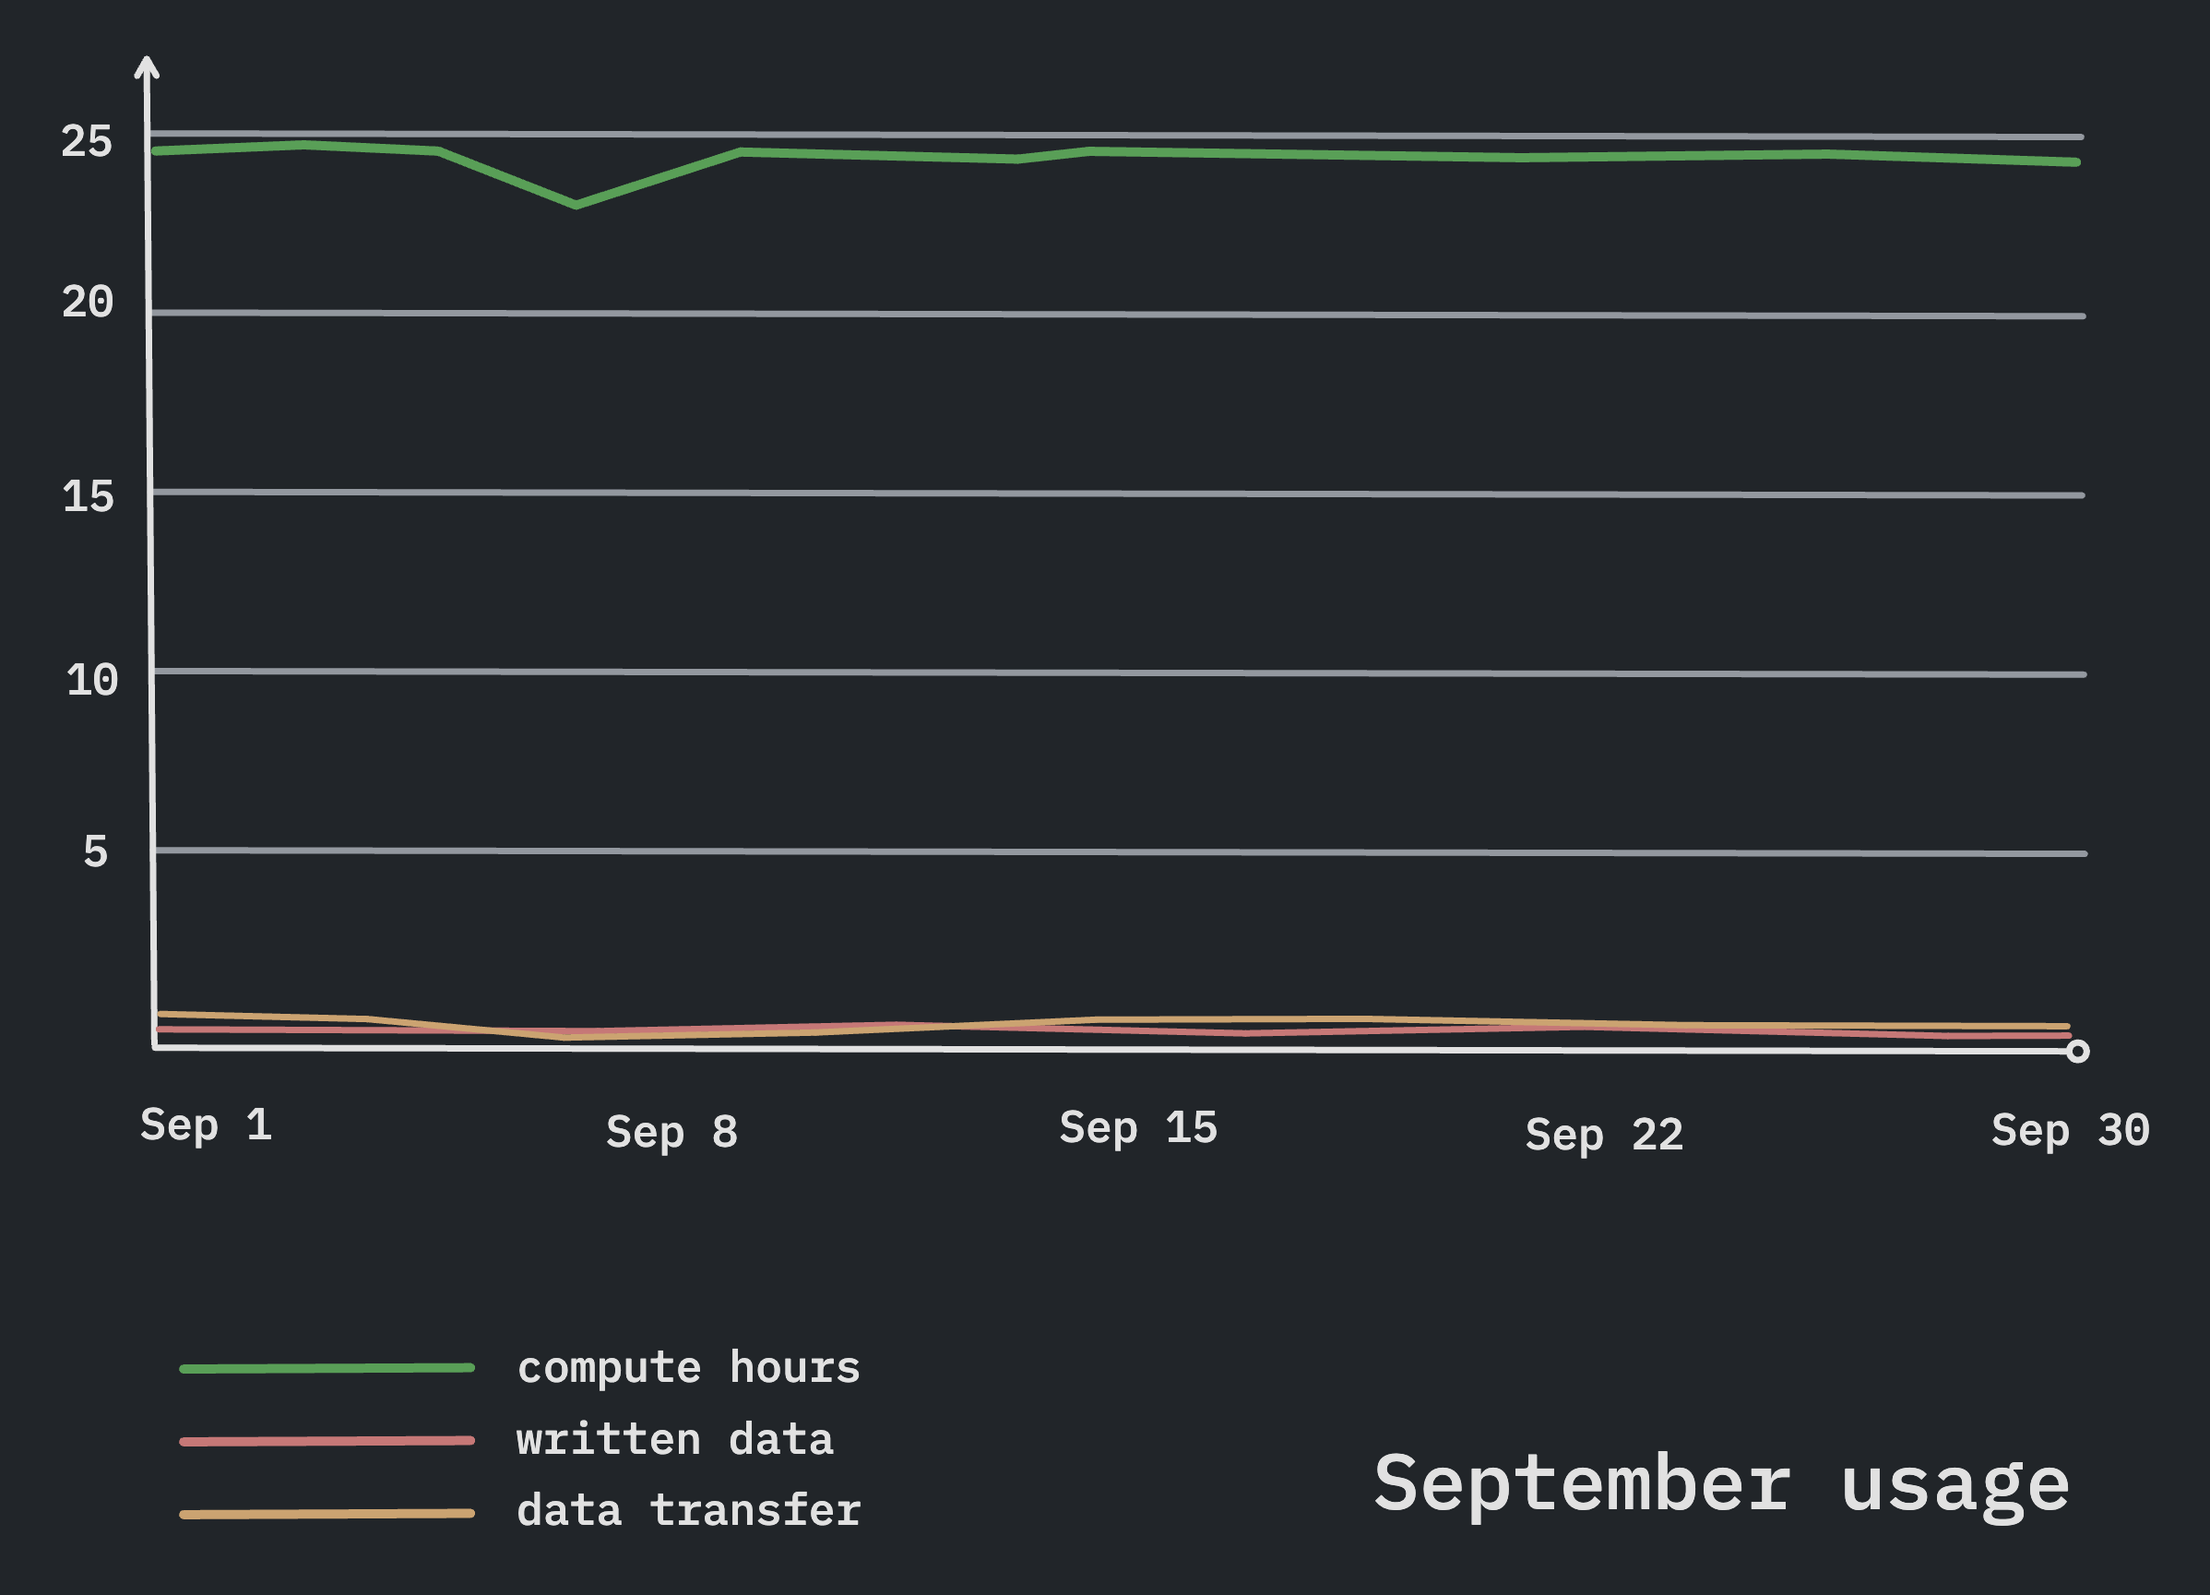
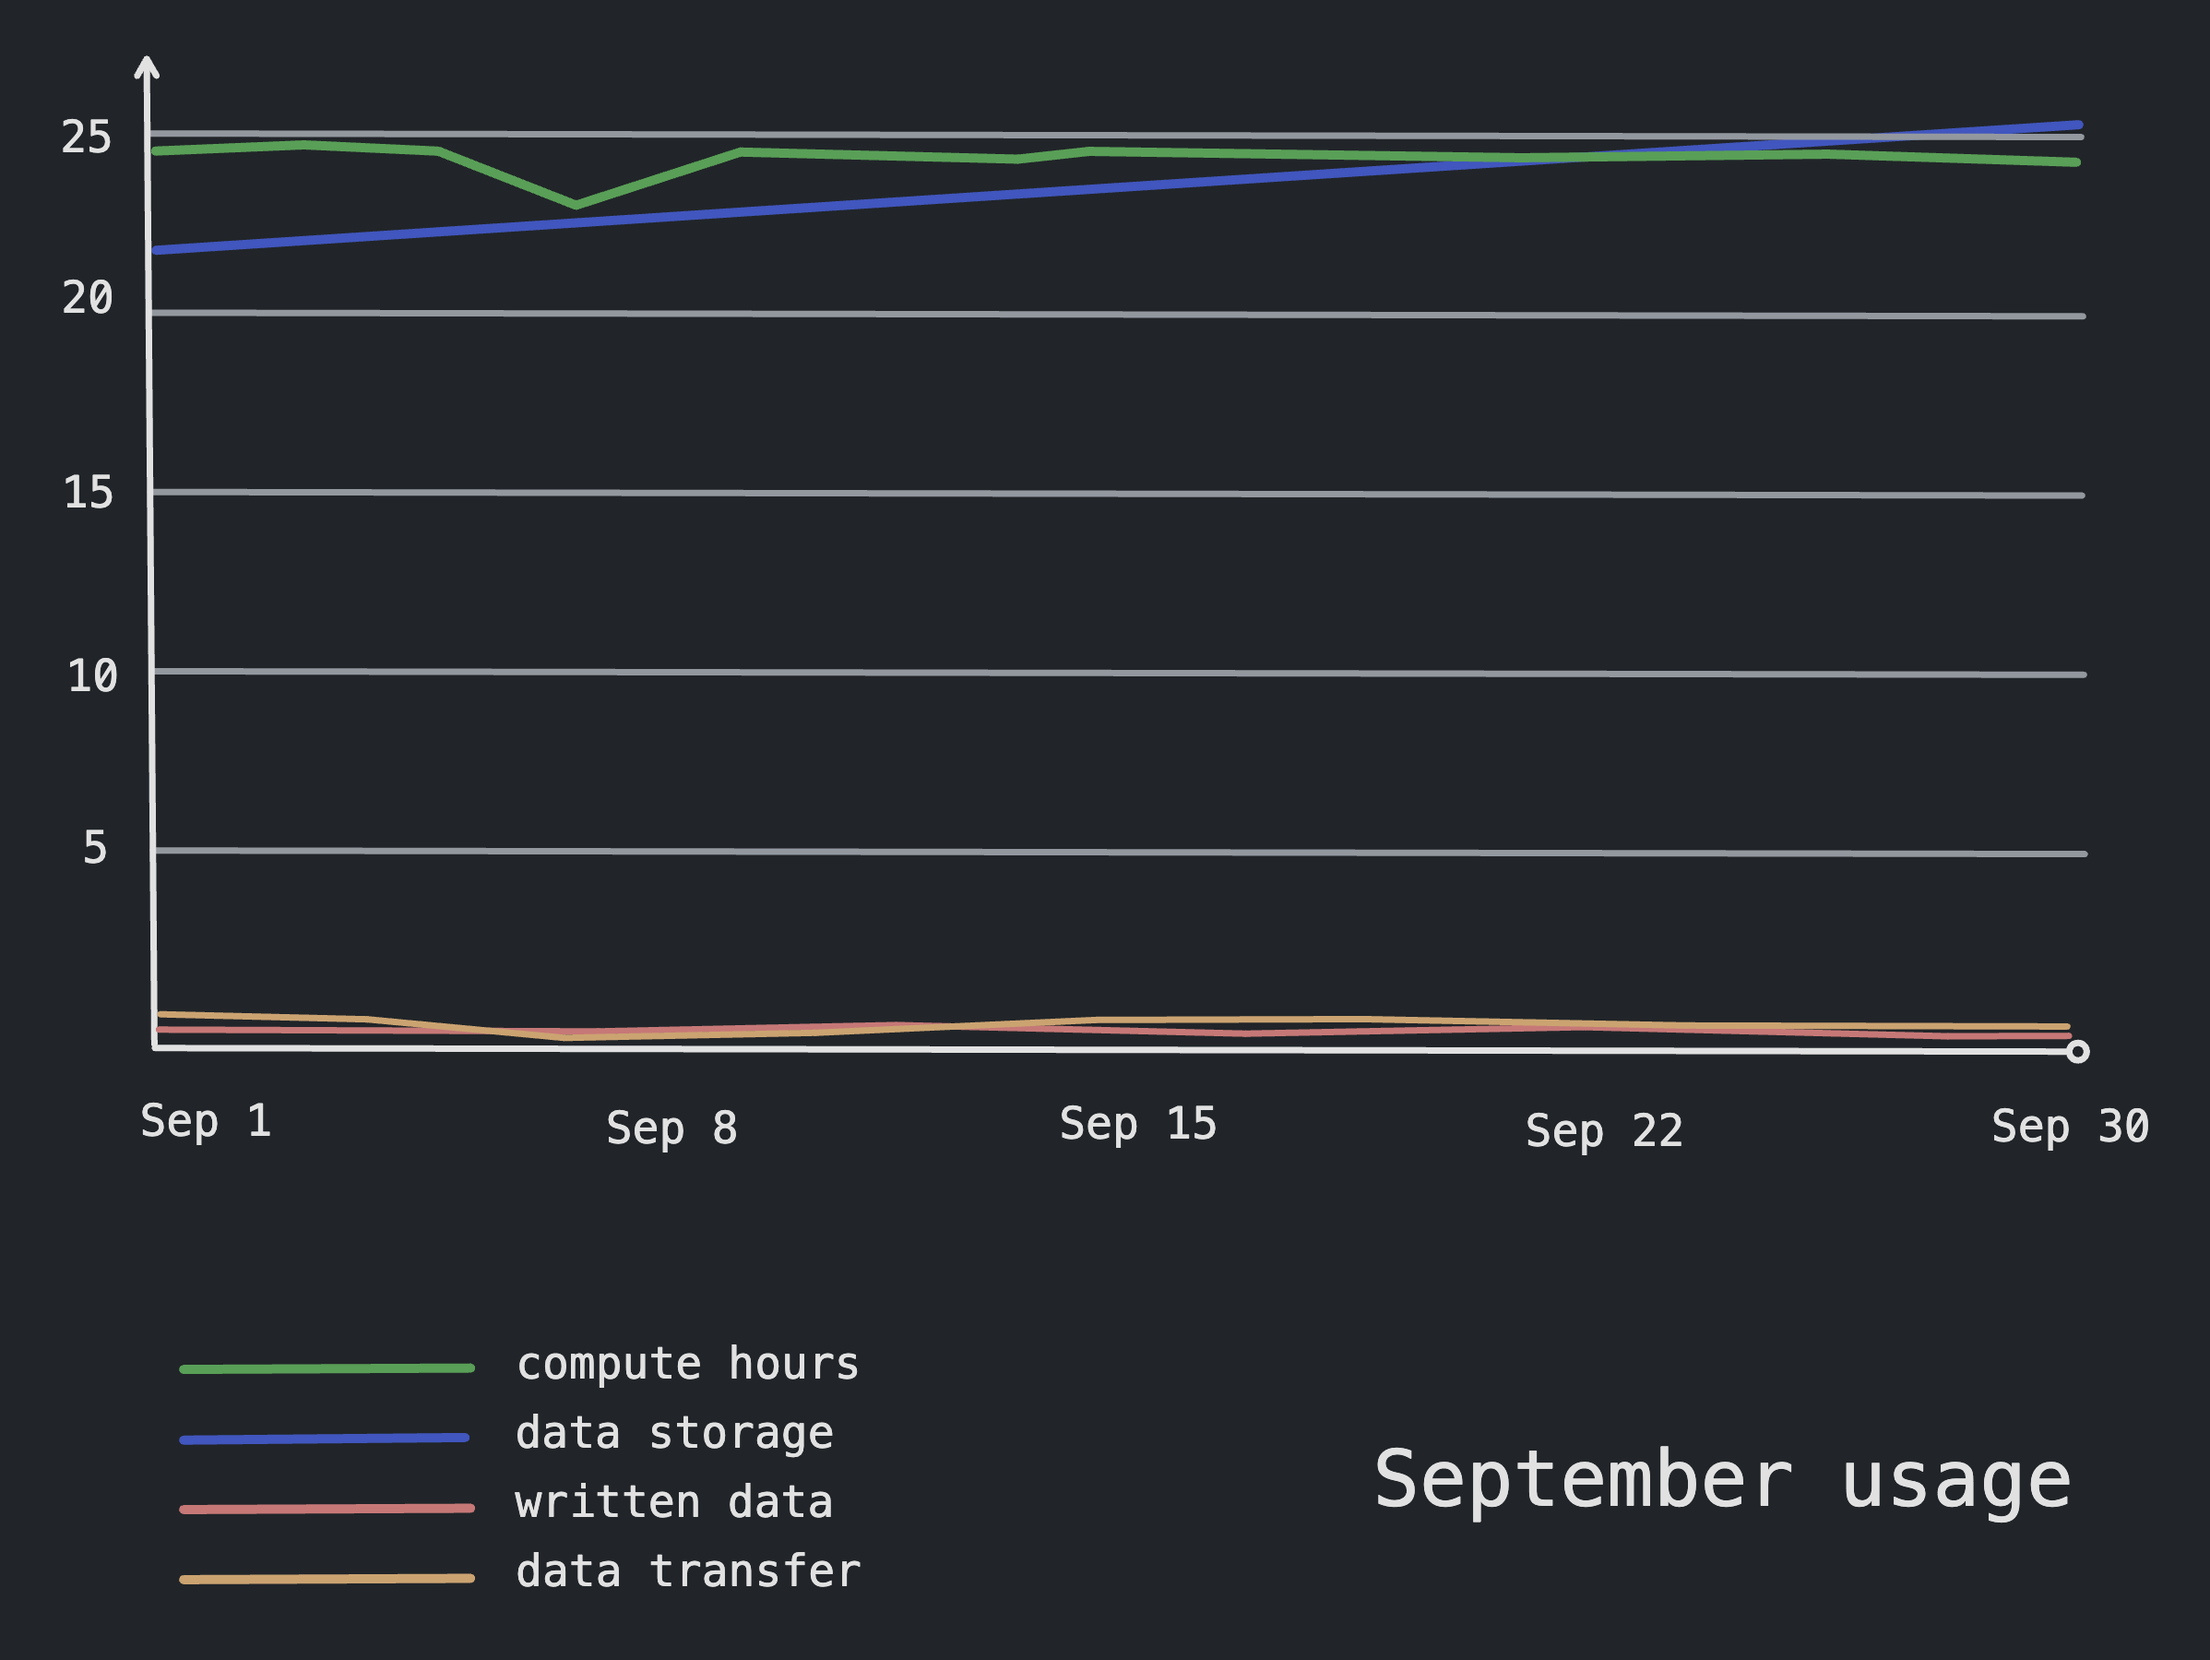
added storage

diff --git a/content/docs/introduction/billing-sample.md b/content/docs/introduction/billing-sample.md
@@ -10,7 +10,7 @@ To give you a clearer sense of how billing works for Neon Pro users, let's explo
 
 ## Overview: Costs by usage
 
-This high-traffic application attracts roughly 80K visitors daily, up to 450K weekly. It receives a steady influx of new users, with 3-5 new accounts created every hour. Each user's activity is capped at 5 images per month. This pattern of interaction and account creation gives you a sense of the steady volume of activity hitting the database.
+Roughly six months since launch, this high-traffic application attracts about 80K visitors daily, up to 450K weekly. It receives a steady influx of new users, with 3-5 new accounts created every hour. Each user's activity is capped at 5 images per month. This pattern of interaction and account creation gives you a sense of the steady volume of activity hitting the database. 
 
 ## Assumptions
 
@@ -32,7 +32,7 @@ Given the high number of connections used by this application, [connection pooli
 ### Compute, storage, data write and transfer:
 
 * **Compute time.** This metric refers to the size of CPU required to handle your interactions plus the length of time your compute is active. The average daily compute usage is 23.94 GB, totally 718.35 GB for the sample month. This indicates steady but low intensity database usage.
-* **Storage size.** The amount of storage needed for your project billed. (need this info)
+* **Storage size.** The amount of database storage currently used by your project. It includes the total volume of data across all branches plus the shared history. The database is now over 25 GiB and growing steadily with new written data.
 * **Written data.** This metric shows the volume of data actively written to database storage. The daily average of 0.15 GB results in a total of 4.4 GB for the month.
 * **Data transfer.** This refers to the amount of data transferred out of Neon. Daily average is 0.09 GB with a monthly total of 2.7 GB.
 
@@ -42,7 +42,7 @@ This graph shows steady CPU usage for the month, along with low data storage and
 
 ![Sample billing graph](/docs/introduction/billing_sample_graph.png)
 
-Here are the daily averages and monthly totals for the 3 key metrics that Neon uses to calculate your bill.
+Here are the daily averages and monthly totals for the 3 key usage metrics that Neon uses to calculate your bill, plus the total current storage costs.
 
 | Metric          | Daily Average | Monthly Total |
 |-----------------|---------------|---------------|
@@ -50,13 +50,18 @@ Here are the daily averages and monthly totals for the 3 key metrics that Neon u
 | Written Data    | 0.15 GB       | 4.4 GB        |
 | Data Transfer   | 0.09 GB       | 2.7 GB        |
 
+ Metric           | Start of billing period| End of billing period |
+|-----------------|---------------|---------------|
+| Data storage    | 22 GiB        | 26.4 GiB         |
+
 ## Bill for the month
 
 This table shows what the billing costs might look like with billing rates set to the region US-East (Ohio).
 
-| Metric              | Month    | Rate     | Amount    |
-|---------------------|----------|----------|-----------|
-| Compute Time Cost   | 718.35 GB| $0.102   | $73.27    |
-| Written Data Cost   | 4.4 GB   | $0.09600 | $0.42     |
-| Data Transfer Cost  | 2.7 GB   | $0.09000 | $0.24     |
-| **Total Bill**      |          |          | **$73.94**|
+| Metric              | Month      | Rate                  | Amount    |
+|---------------------|------------|-----------------------|-----------|
+| Compute Time Cost   | 718.35 GiB | $0.102 per GiB        | $73.27    |
+| Data Storage Cost   | 26.4 GiB   | $0.000164 per GiB-hour| $3.16
+| Written Data Cost   | 4.4 GiB    | $0.09600 per Gib      | $0.42     |
+| Data Transfer Cost  | 2.7 GiB    | $0.09000 per GiB      | $0.24     |
+| **Total Bill**      |            |                       | **$77.09**|
